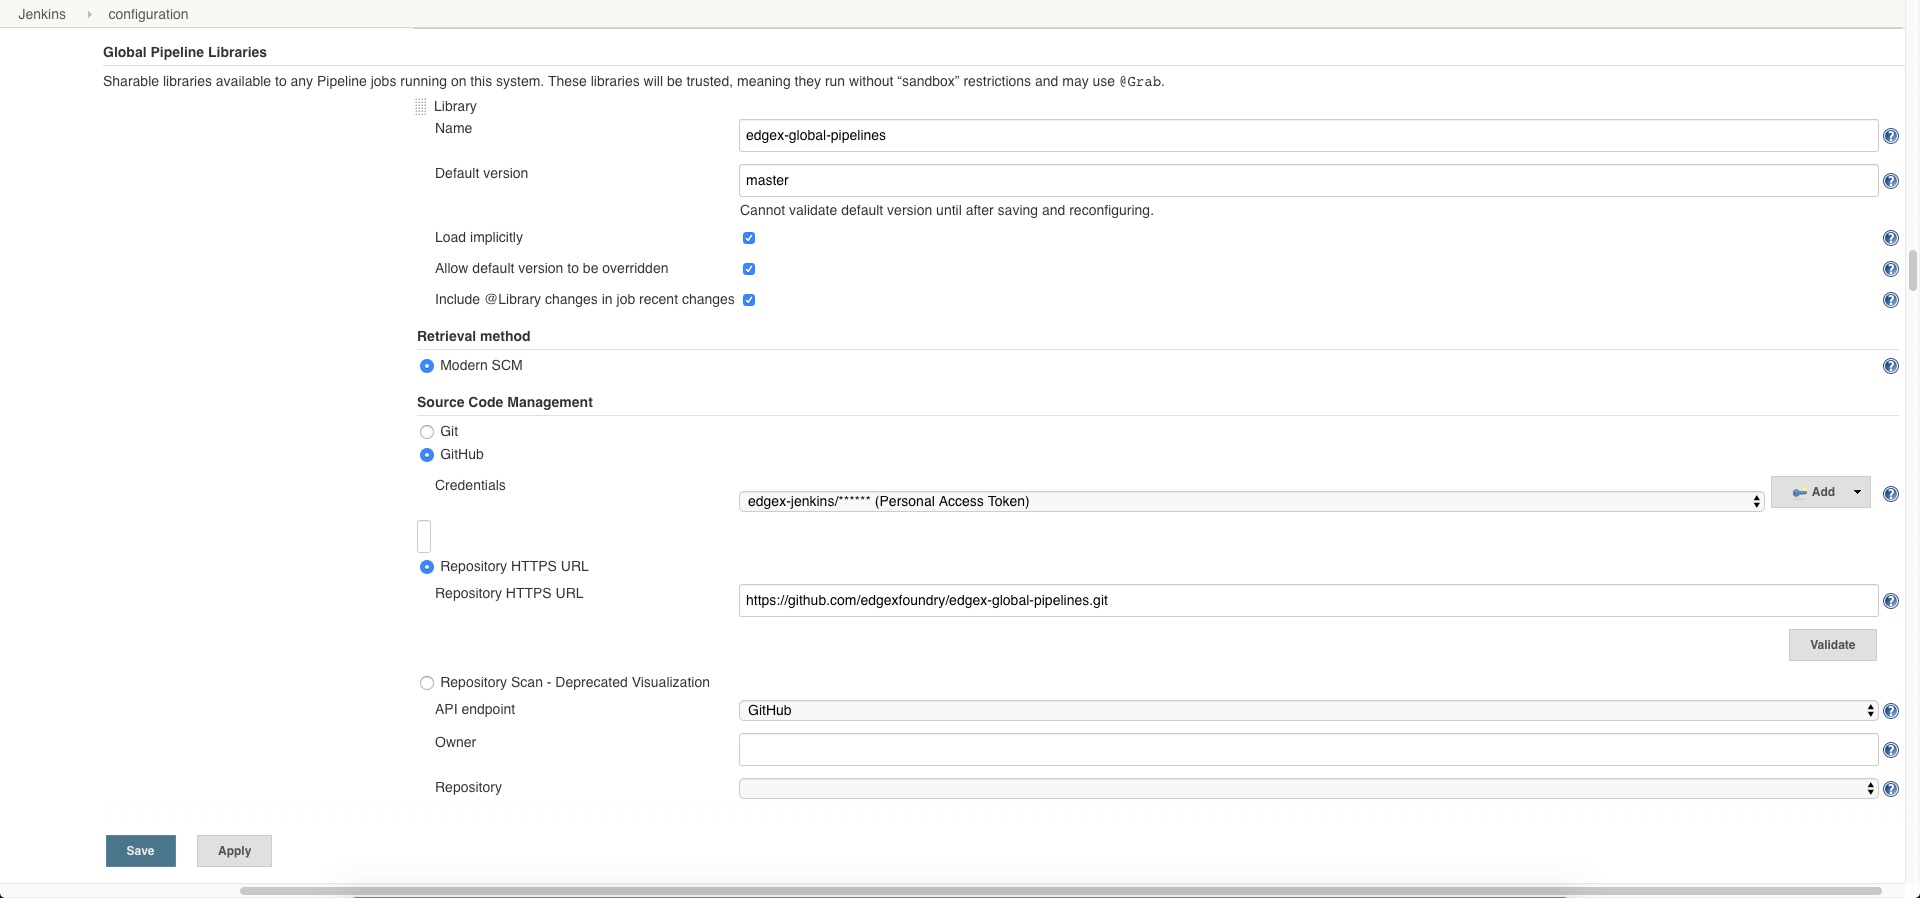
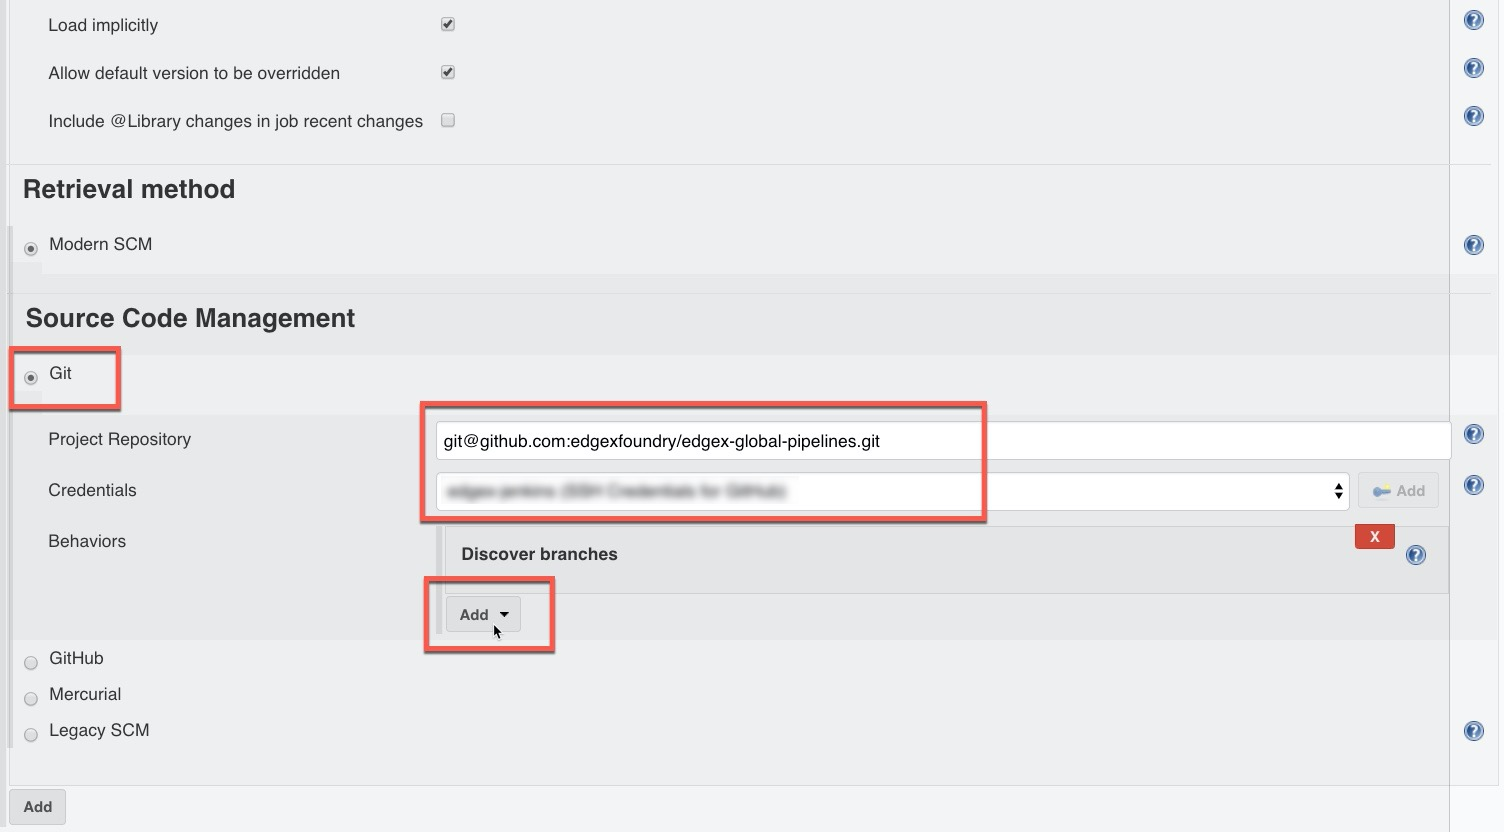
update global library creation steps

diff --git a/README.md b/README.md
@@ -108,8 +108,6 @@ Navigate to the Jenkins master configure page and configure the **Global Pipelin
 
 Scroll down to `Global Pipeline Libraries` and click "Add"
 
-![global-library-settings-1](images/global-library-settings-1.jpg)
-
 **Enter the following details**:
 
 * Name: edgex-global-pipelines
@@ -119,21 +117,22 @@ Scroll down to `Global Pipeline Libraries` and click "Add"
 * **Uncheck** Include @Library changes in job recent changes
 * Retrieval Method: Modern SCM
 
-* **Source Code Management**:
-  * Select GitHub
-  * Credentials: Select or Add new "Username with Password" credential with the Personal Access Token from [Step 1](#step-1-create-personal-access-token)
-  * Repository HTTPS URL: <https://github.com/edgexfoundry/edgex-global-pipelines.git>
+![global-library-settings-1](images/global-library-settings-1.jpg)
 
-* **Behaviors**:
-  * Discover branches: Exclude branches that are also filed as PRs
-  * Discover pull requests from origin: Merging the pull request with the current target branch revision
+* **Source Code Management**:
+  * Select **Git**
+  * Project Repository: `git@github.com:edgexfoundry/edgex-global-pipelines.git`
+  * Credentials: `Select the appropriate SSH credentials`
 
 ![global-library-settings-2](images/global-library-settings-2.jpg)
 
 * **Underneath Behaviours**
+  * Click the "Add" button and select `Discover tags`
   * Click the "Add" button and select `Advanced sub-modules behaviours`
-  ![global-library-settings-2](images/global-library-submodule-1.jpg)
   * Select `Recursively update submodules`
-  ![global-library-settings-2](images/global-library-submodule-2.jpg)
+  * Click the "Add" button and select `Specify ref specs`
+    * Enter `+refs/pull/*:refs/remotes/@{remote}/pr/*`
+
+![global-library-settings-2](images/global-library-settings-3.jpg)
   
 Scroll down to the bottom of the screen and click `Save` to save the settings.

diff --git a/create-github-org.md b/create-github-org.md
@@ -36,7 +36,7 @@ In order to facilitate automatic scans of GitHub repositories, Jenkins has the j
 ### Scan Organization Triggers
 
 * Periodically if not otherwise run: `checked`
-* Interval: `4 hours`
+* Interval: `1 hour`
 
 ### Orphaned Item Strategy
 
